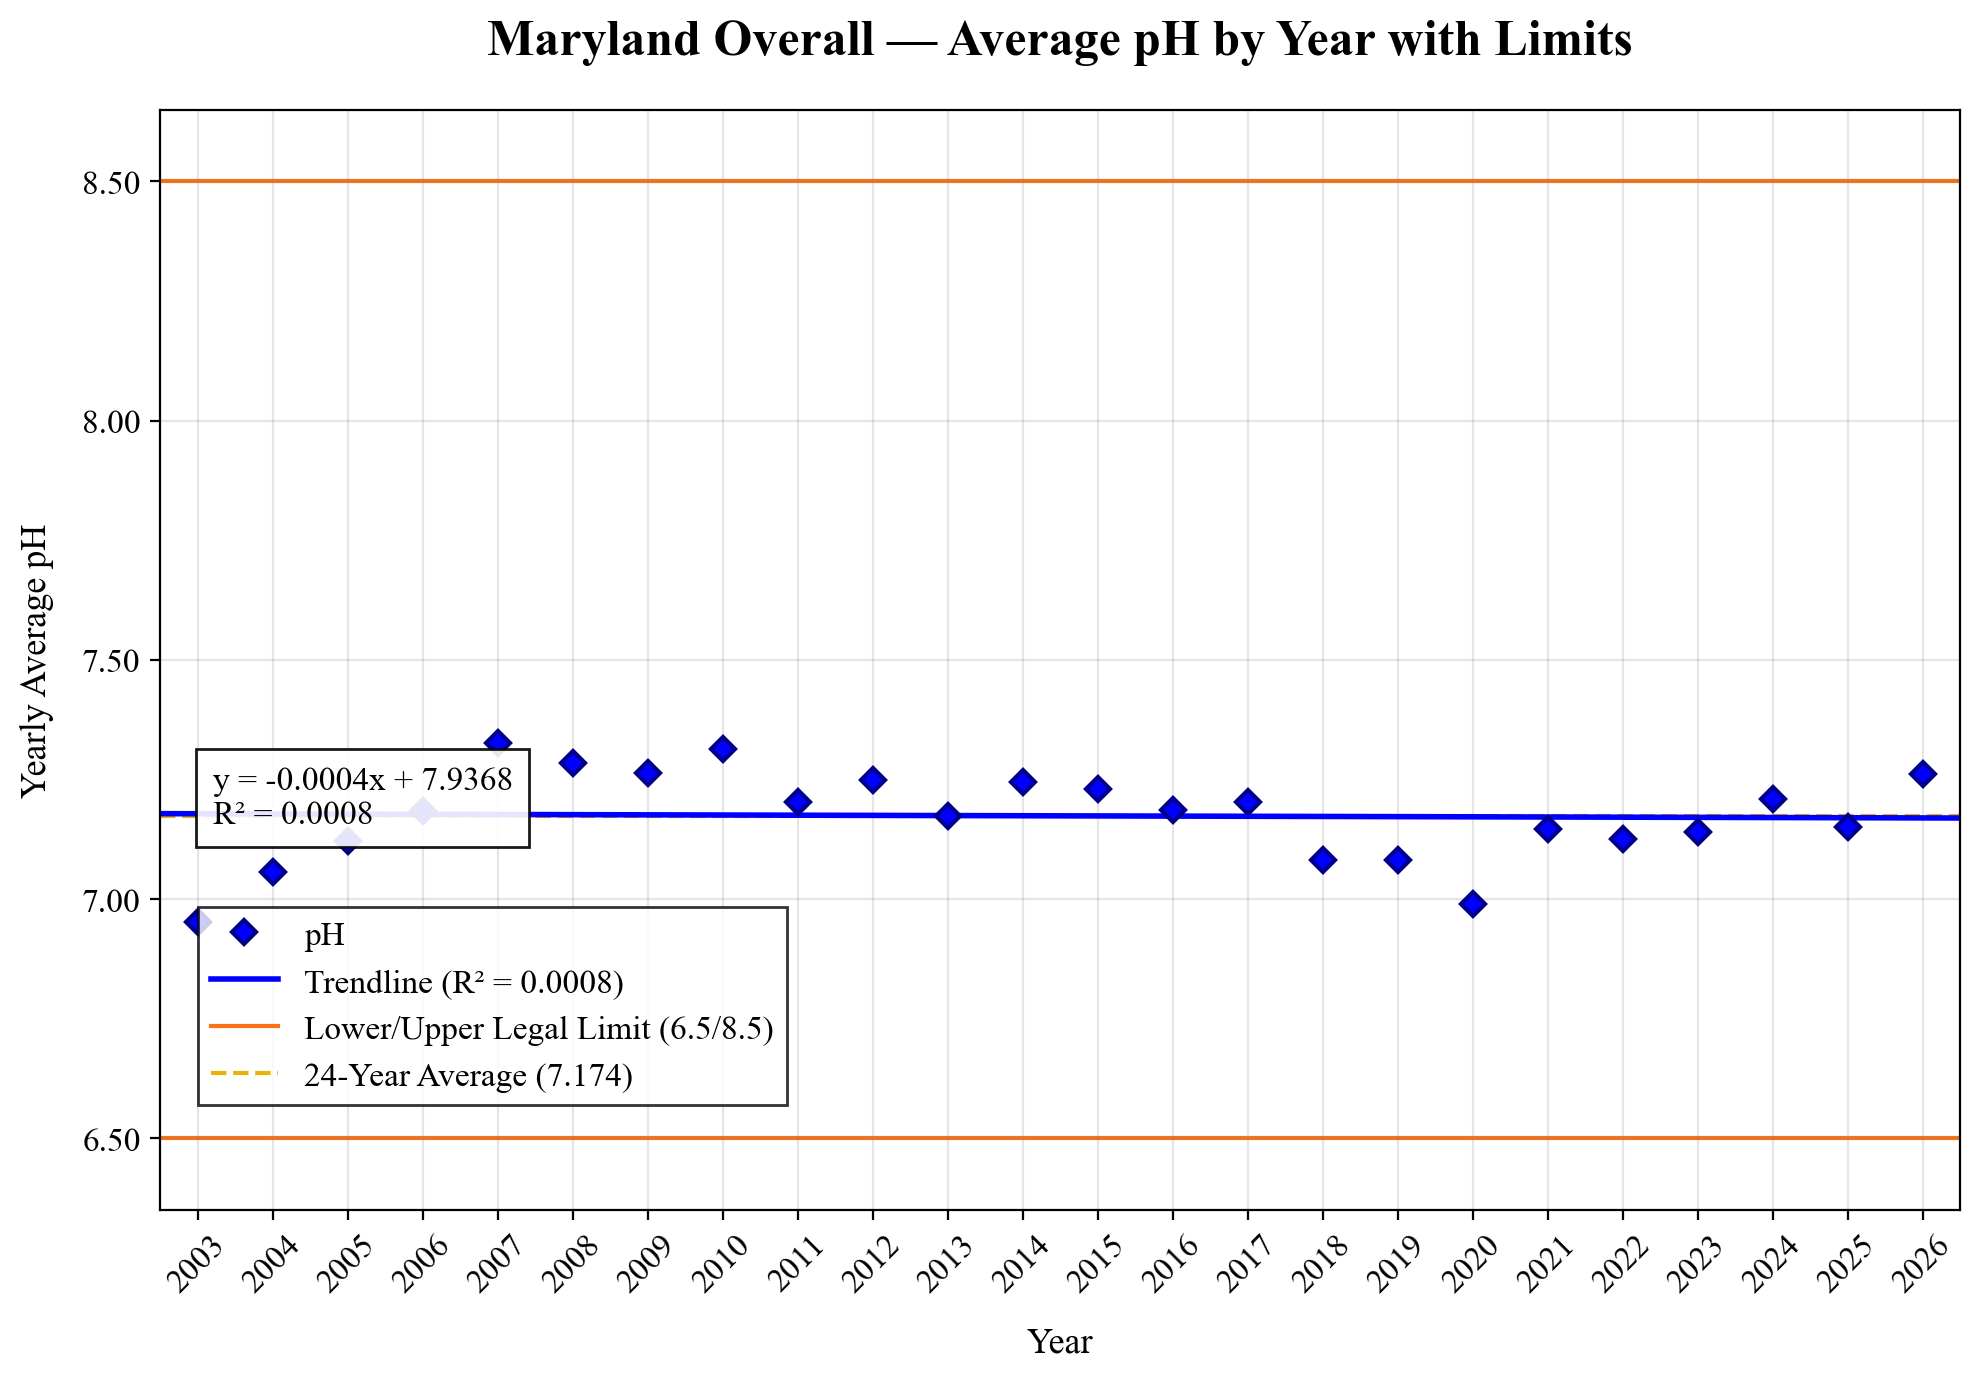
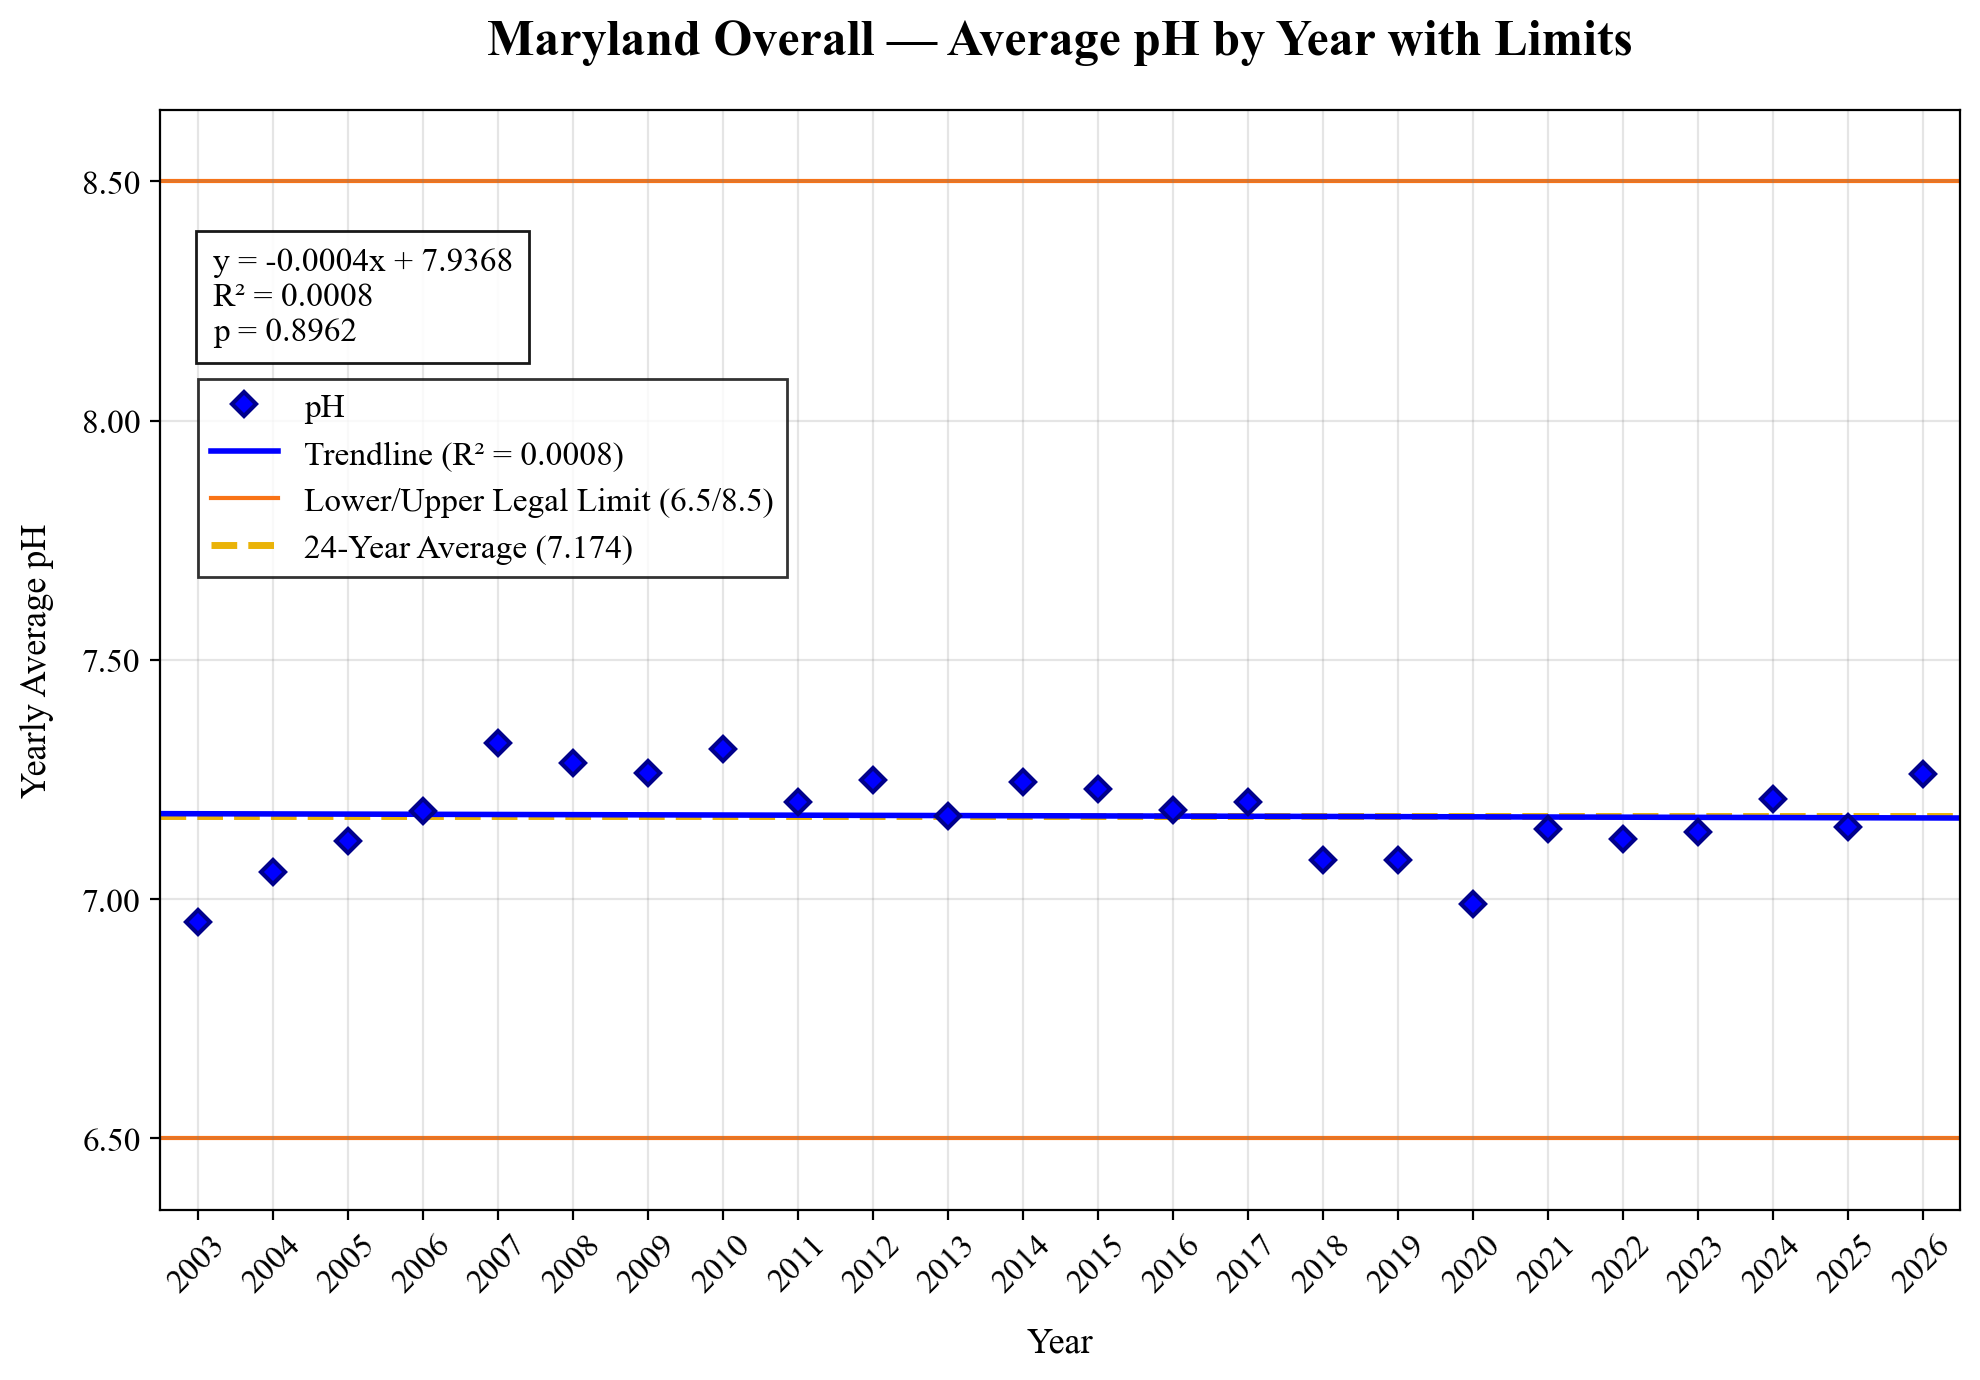
Update Maryland overall trend graph and cache buster

diff --git a/index.html b/index.html
@@ -67,6 +67,6 @@
     <script src="https://unpkg.com/leaflet@1.9.4/dist/leaflet.js" integrity="sha256-20nQCchB9co0qIjJZRGuk2/Z9VM+kNiyxNV1lvTlZBo=" crossorigin=""></script>
     
     <!-- App Logic -->
-    <script src="app.js?v=14"></script>
+    <script src="app.js?v=15"></script>
 </body>
 </html>
